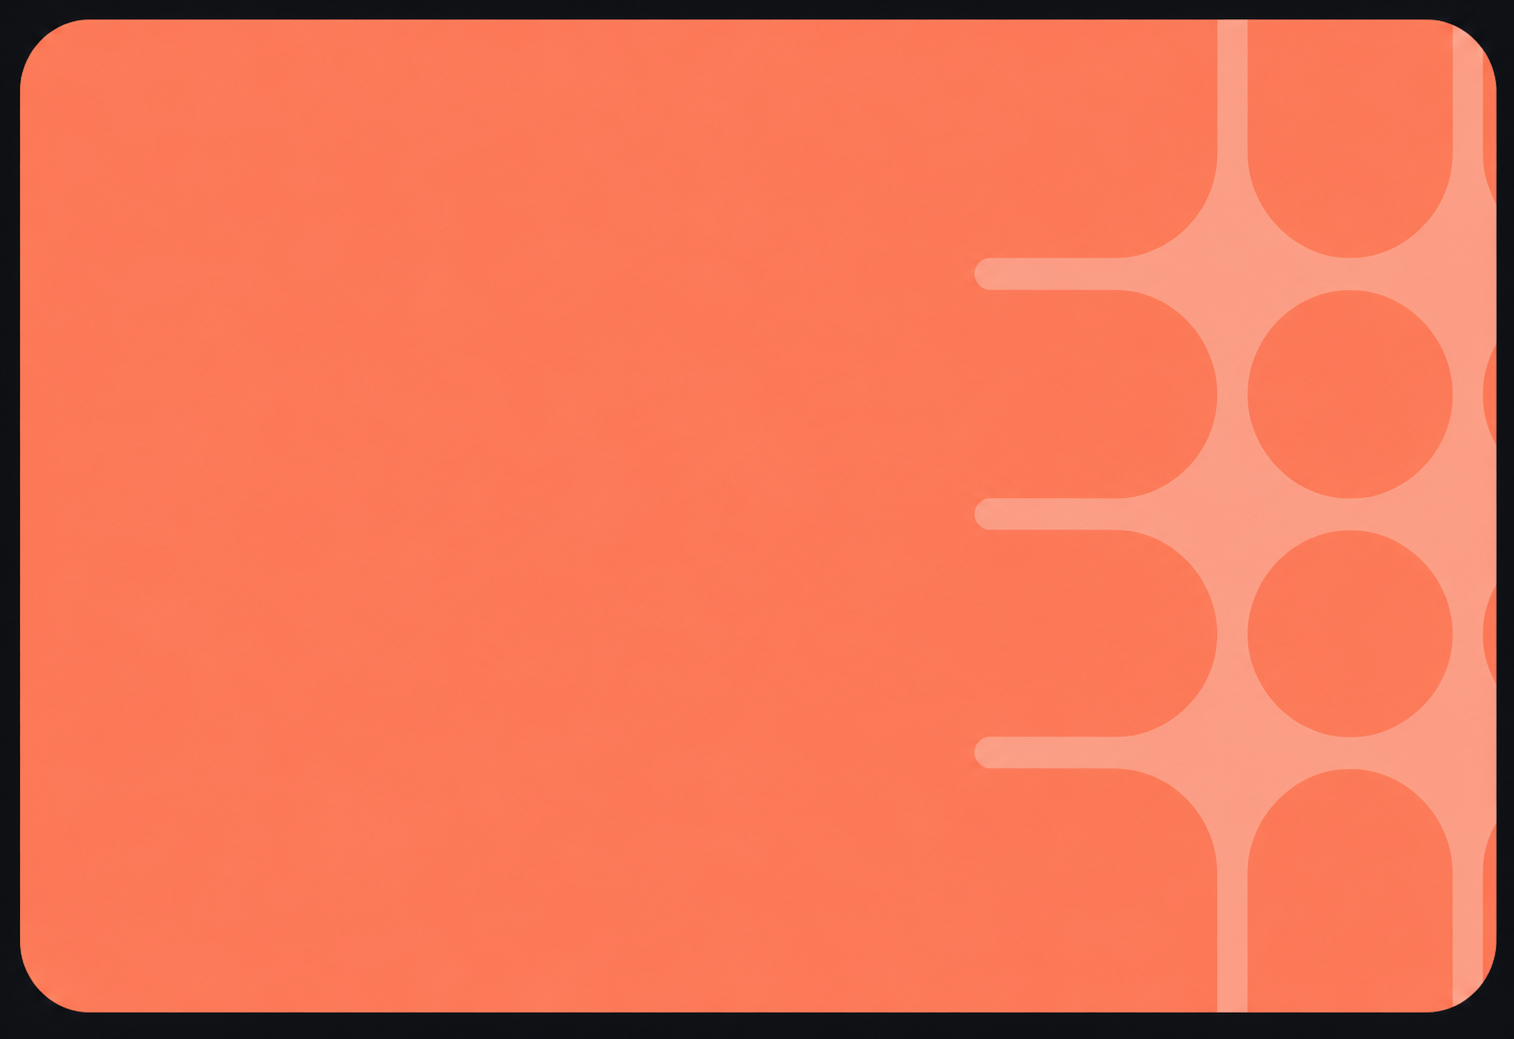
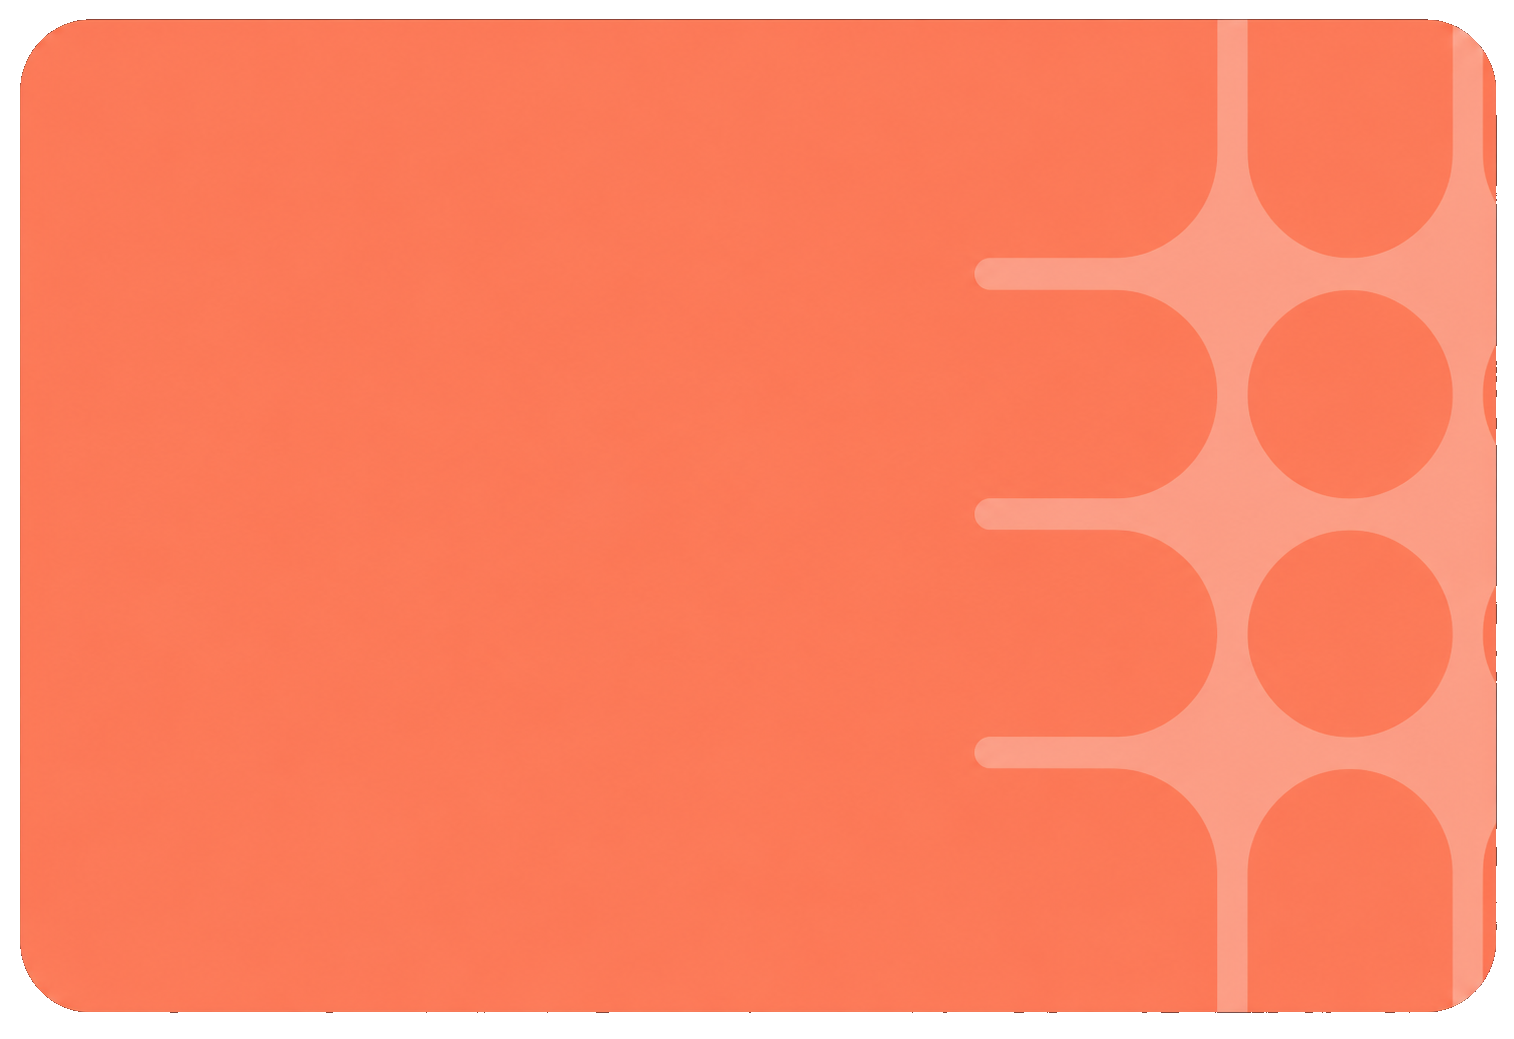
style: added cards and changed font family

Changed region(s): [[0.0, 0.0, 1.0, 1.0]]

diff --git a/styles.css b/styles.css
@@ -17,7 +17,7 @@ body{
     background-color: black;
     display: flex;
     justify-content: center;
-    font-family: 'Inter', sans-serif;
+    font-family: 'DM Sans', sans-serif;
 }
 
 article{
@@ -56,12 +56,13 @@ header img{
 h1{
     color: var(--primary-text);
     width: 420px;
-    font-size: 50px;
+    font-size: 45px;
     margin: auto;
     margin-top: 20px;
 }
 
 textarea{
+    line-height: 1.5;
     font-size: 14px;
     margin-top: 20px;
     color: var(--secondary-text);
@@ -73,7 +74,8 @@ textarea{
     width: 600px;
     height: 120px;
     padding-top: 15px;
-    padding-left: 10px;
+    padding-left: 12px;
+    padding-right: 12px
 }
 
 #checkbox-area{
@@ -131,5 +133,61 @@ textarea{
     margin-left: auto;
     margin-right: 18px;
 }
+
+
+
+/* cards area */
+
+#cards-area{
+    margin-top: 35px;
+    display: flex;
+    justify-content: center;
+    gap: 15px;
+}
+
+#cards-area h2{
+    font-size: 50px;
+    margin-top: 15px;
+    margin-left: 12px;    
+}
+
+#cards-area p{
+    margin-left: 12px;
+    margin-top: 5px;
+}
+
+#cards-area div:nth-child(1){
+    background-color: rgb(227, 0, 227);
+    background-size: cover;
+    border-radius: 10px;
+    height: 120px;
+    width: 190px;
+    display: flex;
+    flex-direction: column;
+    align-items: start;
+}
+
+#cards-area div:nth-child(2){
+    background-color: peru;
+    background-size: cover;
+    border-radius: 10px;
+    height: 120px;
+    width: 190px;
+    display: flex;
+    flex-direction: column;
+    align-items: start;
+}
+
+#cards-area div:nth-child(3){
+    background-color: salmon;
+    background-size: cover;
+    border-radius: 10px;
+    height: 120px;
+    width: 190px;
+    display: flex;
+    flex-direction: column;
+    align-items: start;
+}
+
 
 

diff --git a/index.html b/index.html
@@ -1,6 +1,10 @@
 <!DOCTYPE html>
 <html lang="en">
 <head>
+    <link rel="preconnect" href="https://fonts.googleapis.com">
+    <link rel="preconnect" href="https://fonts.gstatic.com" crossorigin>
+    <link href="https://fonts.googleapis.com/css2?family=DM+Sans:wght@400;500;700;800&display=swap" rel="stylesheet">
+
     <link rel="stylesheet" href="styles.css">
     <meta charset="UTF-8">
     <meta name="viewport" content="width=device-width, initial-scale=1.0">
@@ -20,7 +24,7 @@
     <div id="checkbox-area">
         <input type="checkbox" name="" class="checkbox">Exclude Spaces
         <input type="checkbox" name="" class="checkbox">Set Character Limit
-        <p>Aprox. reading time <1 minute</p>
+        <p>Aprox. reading time: <1 minute</p>
     </div>
 
     <section id="cards-area">